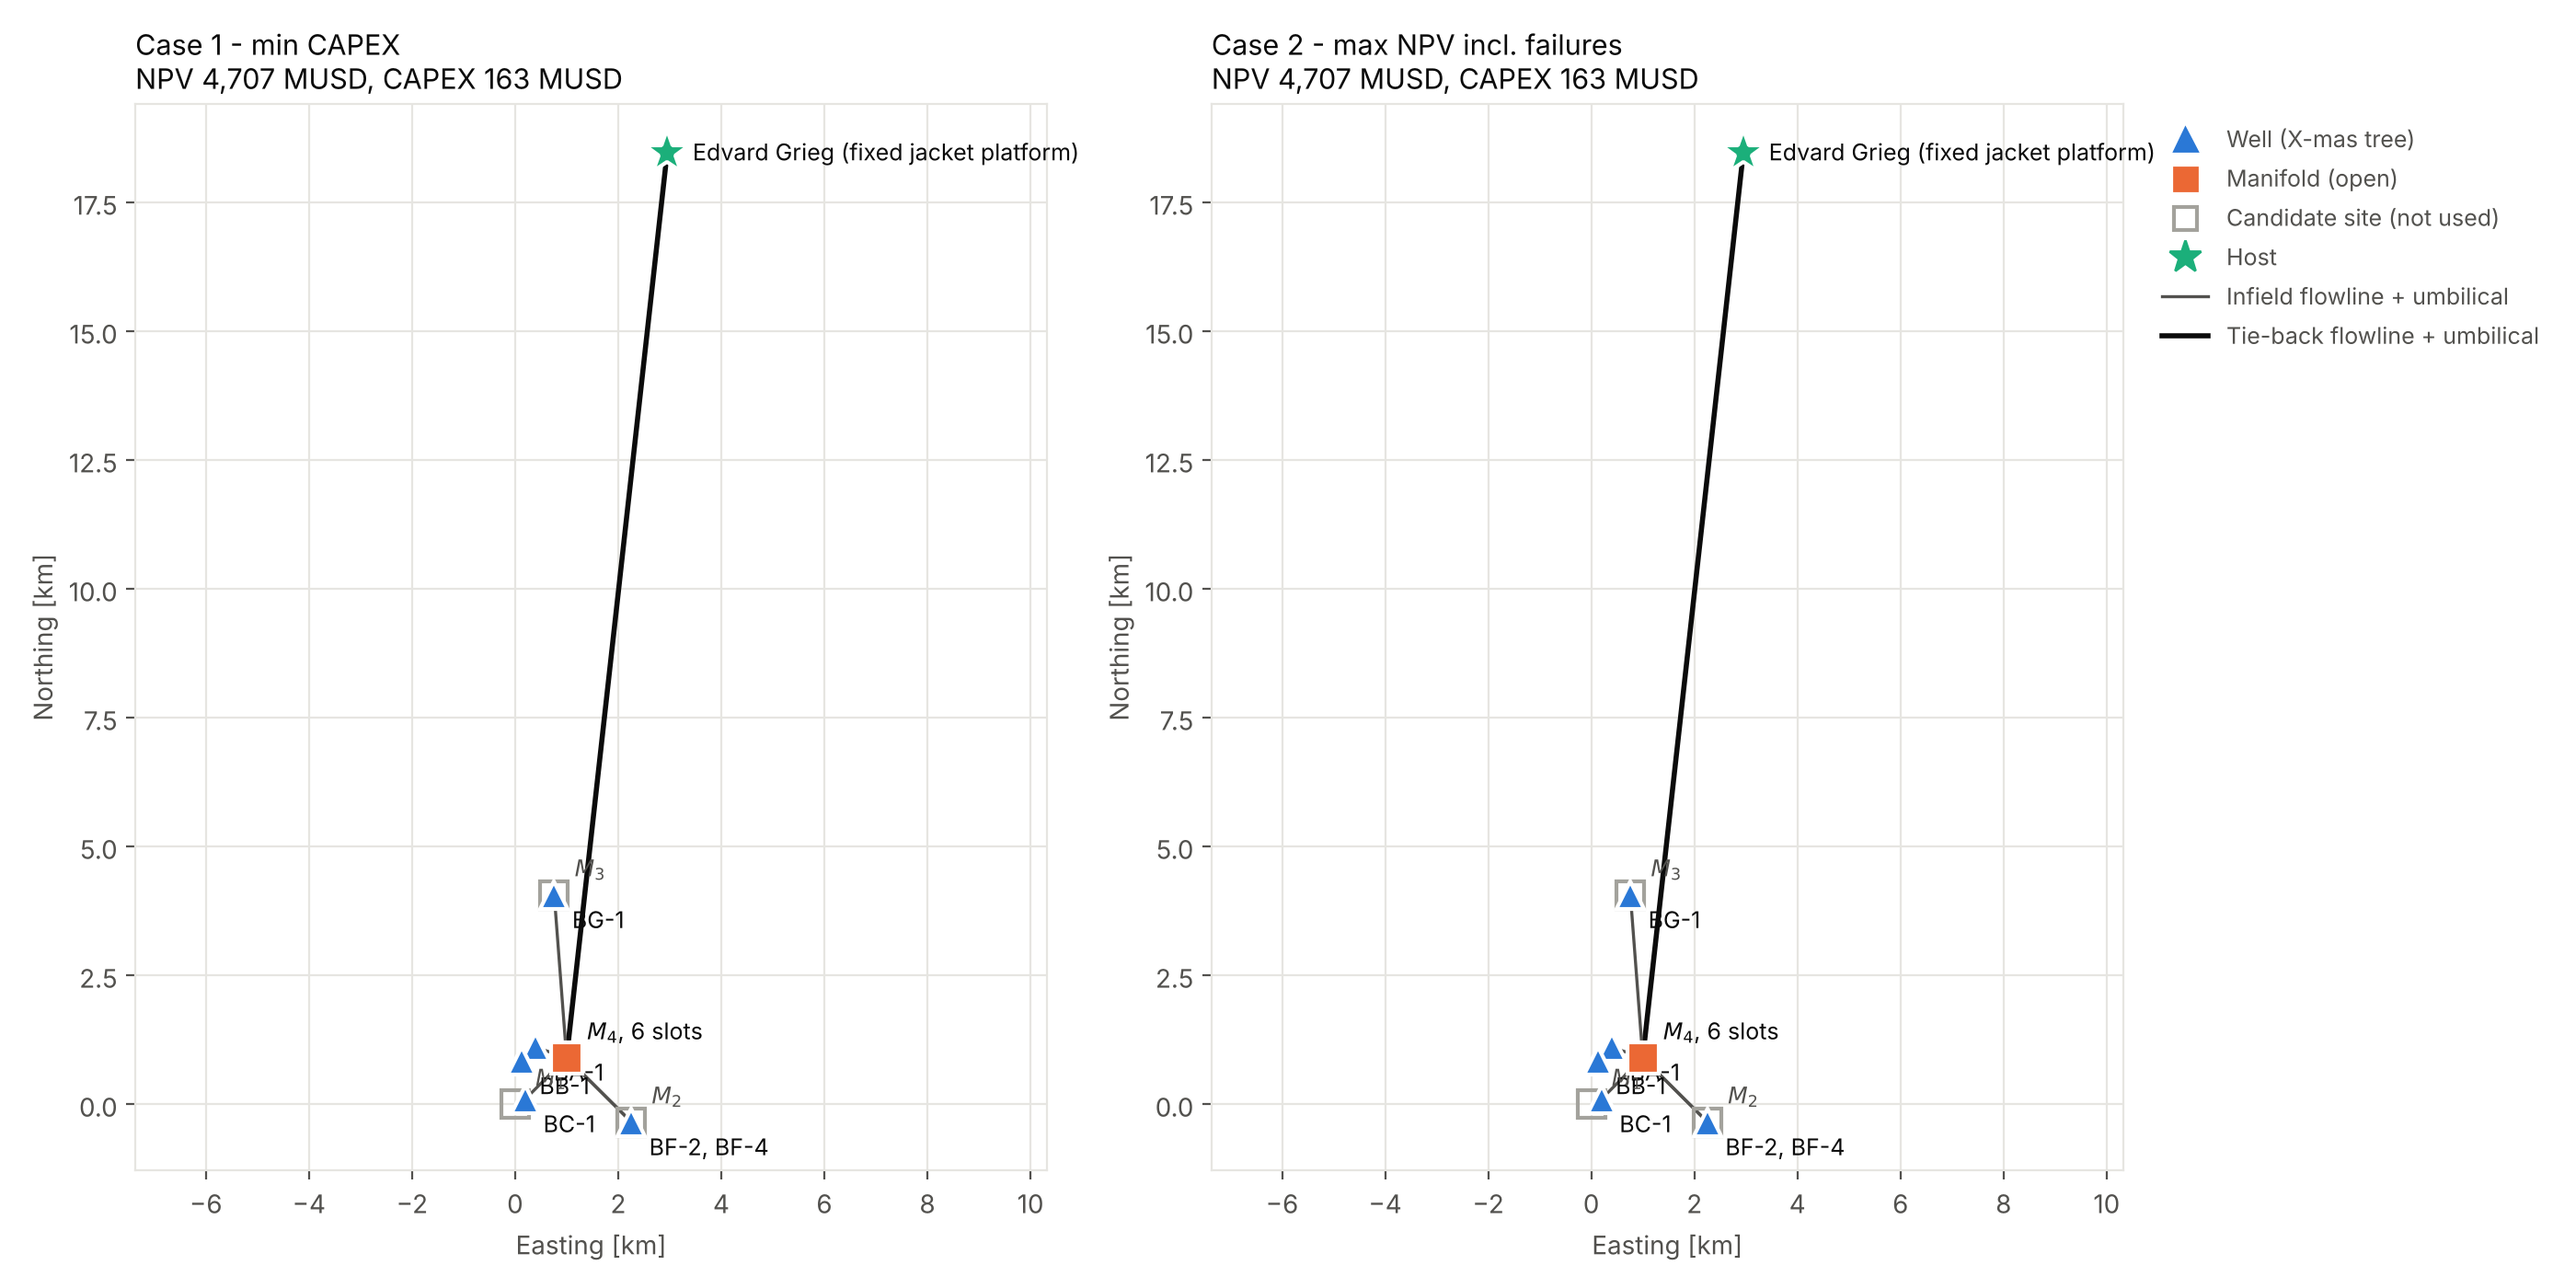
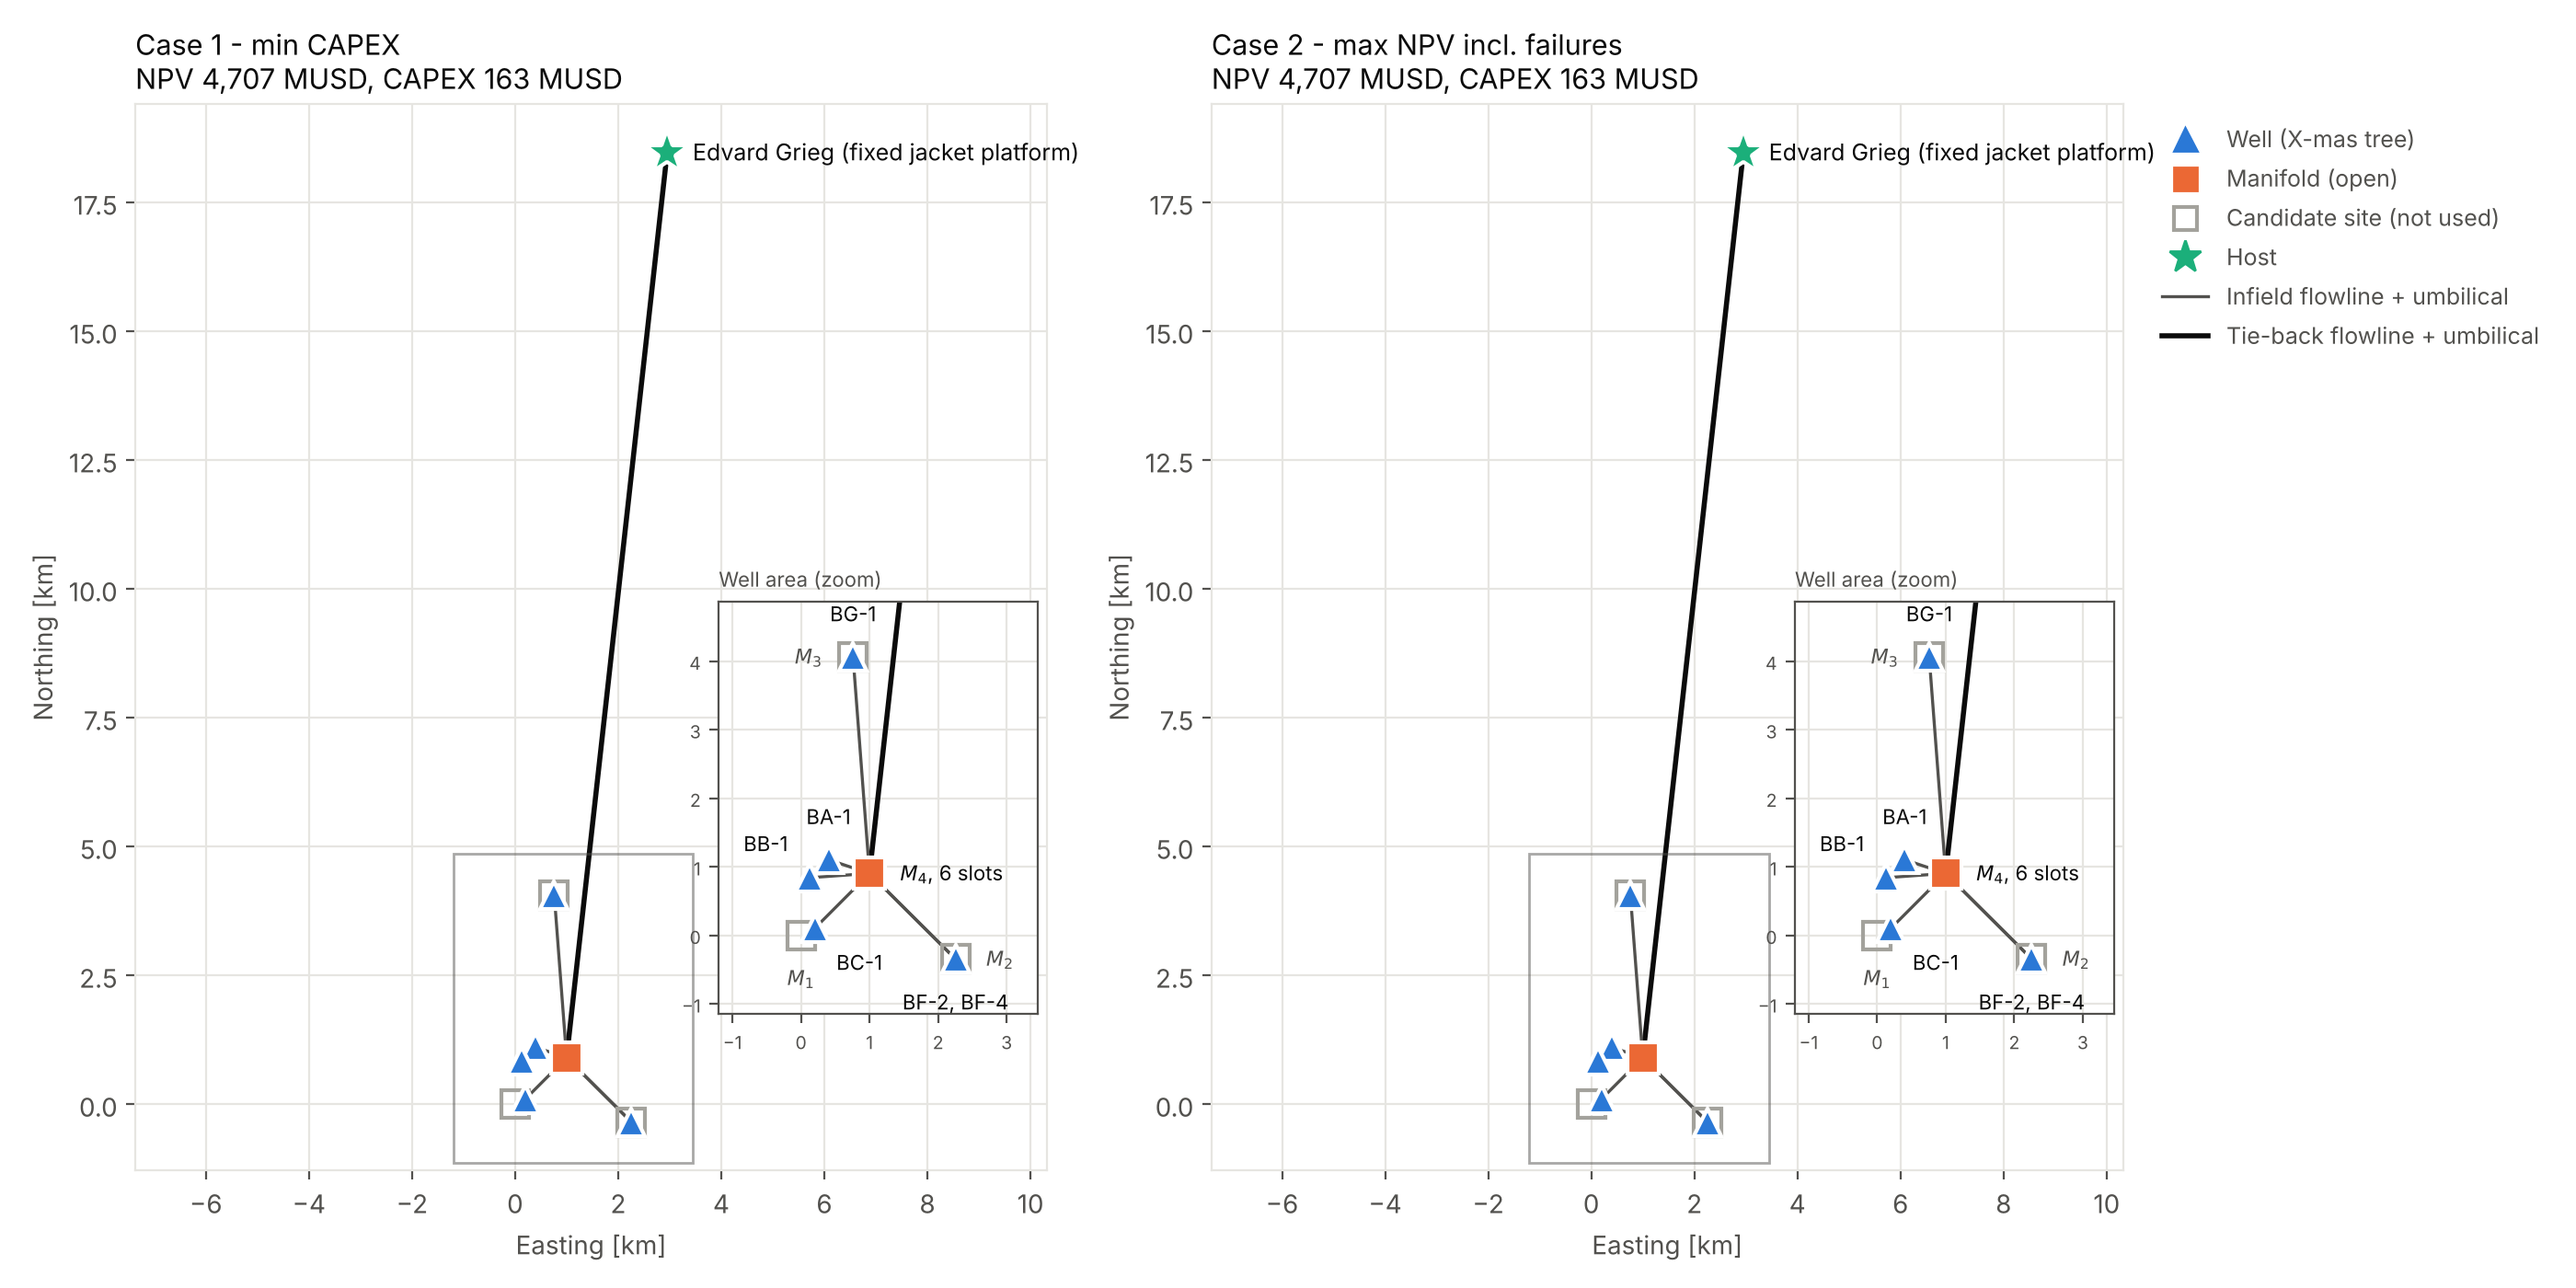
Layout map: zoomed inset of the well area for long tie-backs
- inset drawn automatically when the wells span < 30 % of the map (Solveig: 18 km
  tie-back); node labels move into the inset
- labels placed on the free side of each node, clear of lines and the inset frame;
  optional label_dir in the field YAML fixes a direction (used for BF wells and M3)
- test_plotting.py checks the inset appears for Solveig and not for the toy field

Claude-Session: https://claude.ai/code/session_01CSCPdJPHtsRQLDc3d7AWC5

diff --git a/src/layout_rel/plotting.py b/src/layout_rel/plotting.py
@@ -29,50 +29,169 @@ def _km(p):
     return p[0] / M_PER_KM, p[1] / M_PER_KM
 
 
-def plot_layout(field: Field, assignment: dict[str, str] | None = None,
-                title: str = "", ax=None, show_candidates: bool = True,
-                sizes: dict[str, int] | None = None):
-    """Plot wells, manifold sites, host and (optionally) the chosen connections."""
-    if ax is None:
-        _, ax = plt.subplots(figsize=(7, 7))
-    assignment = assignment or {}
-    open_sites = sorted(set(assignment.values()))
+INSET_RATIO = 0.3   # draw a zoomed inset when the well cluster spans < 30 % of the map
 
-    # connections first, so markers sit on top
-    for s in open_sites:
+
+def _cluster_box(field: Field, pad_km: float = 0.8) -> tuple[float, float, float, float]:
+    """Box around wells and sites [km]; extra room left and right for labels."""
+    pts = [_km(field.pos(n)) for n in field.wells + field.sites]
+    xs, ys = [p[0] for p in pts], [p[1] for p in pts]
+    return (min(xs) - 1.5 * pad_km, max(xs) + 1.5 * pad_km,
+            min(ys) - pad_km, max(ys) + pad_km)
+
+
+_COMPASS = {"E": (1.0, 0.0), "NE": (0.7071, 0.7071), "N": (0.0, 1.0), "NW": (-0.7071, 0.7071),
+            "W": (-1.0, 0.0), "SW": (-0.7071, -0.7071), "S": (0.0, -1.0), "SE": (0.7071, -0.7071)}
+_DIRS = [(1.0, 0.0), (0.7071, 0.7071), (0.0, 1.0), (-0.7071, 0.7071),
+         (-1.0, 0.0), (-0.7071, -0.7071), (0.0, -1.0), (0.7071, -0.7071)]
+
+
+class _Placer:
+    """Picks a label direction per node: the one whose label point is farthest from
+    the nodes, the lines' end points and the labels already placed (greedy)."""
+
+    def __init__(self, points: list[tuple[float, float]], r_km: float):
+        self.occupied = list(points)
+        self.r = r_km
+
+    def __call__(self, p: tuple[float, float], avoid=(), fixed: str = "") -> tuple[float, float]:
+        import math
+        if fixed:                              # direction set in the field file
+            u = _COMPASS[fixed.upper()]
+            self.occupied.append((p[0] + u[0] * self.r, p[1] + u[1] * self.r))
+            return u
+        best, best_d = _DIRS[1], -1.0
+        for u in _DIRS:
+            if u in avoid:
+                continue
+            q = (p[0] + u[0] * self.r, p[1] + u[1] * self.r)
+            d = min((math.hypot(q[0] - o[0], q[1] - o[1]) for o in self.occupied), default=1e9)
+            d += 0.05 * self.r * u[0]          # small preference for labels to the right
+            if d > best_d:
+                best, best_d = u, d
+        self.occupied.append((p[0] + best[0] * self.r, p[1] + best[1] * self.r))
+        return best
+
+
+def _label(ax, text: str, xy, u: tuple[float, float], color: str, fs: float) -> None:
+    """Annotate ``xy`` with text placed 12 pt away in direction ``u``."""
+    ux, uy = u
+    ax.annotate(text, xy, xytext=(12 * ux, 12 * uy), textcoords="offset points",
+                ha="left" if ux > 0.3 else "right" if ux < -0.3 else "center",
+                va="bottom" if uy > 0.3 else "top" if uy < -0.3 else "center",
+                color=color, fontsize=fs)
+
+
+def _draw(ax, field: Field, assignment: dict[str, str], sizes, show_candidates: bool,
+          labels: bool, fs: float = 9, r_km: float = 1.0, frame=None) -> None:
+    """Lines and markers of one layout; node labels only if ``labels``.
+
+    ``r_km``: label distance from its node in data units, used to keep labels apart.
+    ``frame``: (x0, x1, y0, y1) of the view; labels keep clear of its edges.
+    """
+    open_sites = sorted(set(assignment.values()))
+    pts = [_km(field.pos(n)) for n in field.wells + field.sites]
+    for s in open_sites:                       # points along the tie-backs, so labels avoid them
         (x0, y0), (x1, y1) = _km(field.pos(s)), _km(field.pos(field.host))
-        ax.plot([x0, x1], [y0, y1], color=C_INK, lw=2.0, zorder=1,
-                solid_capstyle="round")
+        pts += [(x0 + (x1 - x0) * t / 200, y0 + (y1 - y0) * t / 200) for t in range(1, 200)]
     for w, s in assignment.items():
         (x0, y0), (x1, y1) = _km(field.pos(w)), _km(field.pos(s))
-        ax.plot([x0, x1], [y0, y1], color=C_INK_2, lw=1.2, zorder=1,
-                solid_capstyle="round")
+        pts += [(x0 + (x1 - x0) * t / 4, y0 + (y1 - y0) * t / 4) for t in range(1, 4)]
+    if frame:
+        fx0, fx1, fy0, fy1 = frame
+        pts += [(fx0 + (fx1 - fx0) * t / 40, fy) for t in range(41) for fy in (fy0, fy1)]
+        pts += [(fx, fy0 + (fy1 - fy0) * t / 40) for t in range(41) for fx in (fx0, fx1)]
+    place = _Placer(pts, r_km)
+    for s in open_sites:                       # connections first, so markers sit on top
+        (x0, y0), (x1, y1) = _km(field.pos(s)), _km(field.pos(field.host))
+        ax.plot([x0, x1], [y0, y1], color=C_INK, lw=2.0, zorder=1, solid_capstyle="round")
+    for w, s in assignment.items():
+        (x0, y0), (x1, y1) = _km(field.pos(w)), _km(field.pos(s))
+        ax.plot([x0, x1], [y0, y1], color=C_INK_2, lw=1.2, zorder=1, solid_capstyle="round")
 
     ring = dict(markeredgecolor="white", markeredgewidth=1.5)
+    placed: dict[tuple[float, float], tuple[float, float]] = {}
     at_pos: dict[tuple[float, float], list[str]] = {}       # wells on one template share a label
+    fixed: dict[tuple[float, float], str] = {}
     for w in field.wells:
         at_pos.setdefault(field.pos(w), []).append(field.label(w))
-    for p, labels in at_pos.items():
+        if field.graph.nodes[w].get("label_dir"):
+            fixed[field.pos(w)] = field.graph.nodes[w]["label_dir"]
+    for p, names in at_pos.items():
         x, y = _km(p)
         ax.plot(x, y, "^", ms=11, color=C_WELL, zorder=3, **ring)
-        ax.annotate(", ".join(labels), (x, y), xytext=(7, -13), textcoords="offset points",
-                    color=C_INK, fontsize=9)
+        if labels:
+            u = place((x, y), fixed=fixed.get(p, ""))
+            _label(ax, ", ".join(names), (x, y), u, C_INK, fs)
+            placed[p] = u
     for s in field.sites:
         x, y = _km(field.pos(s))
         if s in open_sites:
             ax.plot(x, y, "s", ms=12, color=C_MANIFOLD, zorder=3, **ring)
         elif show_candidates:
             ax.plot(x, y, "s", ms=11, mfc="none", mec=C_MUTED, mew=1.5, zorder=2)
-        label = (f"{field.label(s)}, {sizes[s]} slots" if sizes and s in sizes
-                 else field.label(s))
-        ax.annotate(label, (x, y), xytext=(8, 7), textcoords="offset points",
-                    color=C_INK if s in open_sites else C_INK_2, fontsize=9)
+        if labels:
+            label = (f"{field.label(s)}, {sizes[s]} slots" if sizes and s in sizes
+                     else field.label(s))
+            u = place((x, y), avoid=[placed.get(field.pos(s))],
+                      fixed=field.graph.nodes[s].get("label_dir", ""))
+            _label(ax, label, (x, y), u, C_INK if s in open_sites else C_INK_2, fs)
     hx, hy = _km(field.pos(field.host))
     ax.plot(hx, hy, "*", ms=18, color=C_HOST, zorder=3, **ring)
+
+
+def _style(ax) -> None:
+    ax.tick_params(colors=C_INK_2)
+    ax.grid(True, color=C_GRID, lw=0.8)
+    ax.set_axisbelow(True)
+    for sp in ax.spines.values():
+        sp.set_color(C_GRID)
+
+
+def plot_layout(field: Field, assignment: dict[str, str] | None = None,
+                title: str = "", ax=None, show_candidates: bool = True,
+                sizes: dict[str, int] | None = None, inset: bool | None = None):
+    """Plot wells, manifold sites, host and (optionally) the chosen connections.
+
+    ``inset``: draw a zoomed inset of the wells and manifold sites, with their labels
+    there instead of on the main map. None = automatic (when the cluster is small
+    compared with the distance to the host, as for a long tie-back).
+    """
+    if ax is None:
+        _, ax = plt.subplots(figsize=(7, 7))
+    assignment = assignment or {}
+    open_sites = sorted(set(assignment.values()))
+    x0, x1, y0, y1 = _cluster_box(field)
+    hx, hy = _km(field.pos(field.host))
+    bx0, bx1, by0, by1 = _cluster_box(field, pad_km=0.0)
+    span = max(bx1 - bx0, by1 - by0)
+    total = max(abs(hx - (x0 + x1) / 2), abs(hy - (y0 + y1) / 2)) + span / 2
+    if inset is None:
+        inset = span < INSET_RATIO * total
+
+    _draw(ax, field, assignment, sizes, show_candidates, labels=not inset, r_km=0.07 * total)
     htype = field.graph.nodes[field.host].get("host_type", "")
     hname = field.label(field.host)
     ax.annotate(f"{hname} ({htype})" if htype else hname, (hx, hy),
                 xytext=(10, -3), textcoords="offset points", color=C_INK, fontsize=9)
+    if inset:
+        # put the inset on the side of the map away from the tie-backs
+        # the tie-back runs from the wells to the host; the lower corner on the far side
+        # from the host's direction stays empty
+        right = hx <= (x0 + x1) / 2 + 2 * (x1 - x0)
+        axin = ax.inset_axes([0.64, 0.06, 0.35, 0.56] if right else [0.01, 0.06, 0.35, 0.56])
+        axin.set_facecolor("white")
+        _draw(axin, field, assignment, sizes, show_candidates, labels=True, fs=8,
+              r_km=0.09 * span, frame=(x0, x1, y0, y1))
+        axin.set_xlim(x0, x1)
+        axin.set_ylim(y0, y1)
+        axin.set_aspect("equal", adjustable="box")
+        axin.tick_params(labelsize=7)
+        _style(axin)
+        for sp in axin.spines.values():
+            sp.set_color(C_INK_2)
+        axin.set_title("Well area (zoom)", loc="left", fontsize=8, color=C_INK_2)
+        ax.indicate_inset_zoom(axin, edgecolor=C_INK_2)
 
     handles = [
         Line2D([], [], marker="^", ls="", color=C_WELL, ms=9, label="Well (X-mas tree)"),
@@ -90,11 +209,7 @@ def plot_layout(field: Field, assignment: dict[str, str] | None = None,
     ax.set_aspect("equal", adjustable="datalim")
     ax.set_xlabel("Easting [km]", color=C_INK_2)
     ax.set_ylabel("Northing [km]", color=C_INK_2)
-    ax.tick_params(colors=C_INK_2)
-    ax.grid(True, color=C_GRID, lw=0.8)
-    ax.set_axisbelow(True)
-    for sp in ax.spines.values():
-        sp.set_color(C_GRID)
+    _style(ax)
     if title:
         ax.set_title(title, loc="left", color=C_INK, fontsize=11)
     return ax

diff --git a/scripts/prepare_solveig.py b/scripts/prepare_solveig.py
@@ -56,7 +56,9 @@ def main():
     for r in w.sort_values("wlbWell").itertuples():
         x, y = pos[r.wlbProductionFacility]
         name = "W_" + r.wlbWell.split("-", 1)[1].replace("-", "")
-        well_list.append({"name": name, "label": r.wlbWell.split("-", 1)[1], "x": x, "y": y,
+        well_list.append({"name": name, "label": r.wlbWell.split("-", 1)[1],
+                          **({"label_dir": "S"} if r.wlbProductionFacility.endswith(" BF") else {}),
+                          "x": x, "y": y,
                           "template": r.wlbProductionFacility, "sodir_well": r.wlbWell})
 
     # candidate manifold sites: the real manifold, the two phase-2 templates, and the well centroid
@@ -66,7 +68,7 @@ def main():
         {"name": "M_ACT", "label": "$M_1$", "x": pos[man][0], "y": pos[man][1], "note": f"real manifold ({man})"},
         {"name": "M_BF", "label": "$M_2$", "x": pos["16/4 SOLVEIG BF"][0], "y": pos["16/4 SOLVEIG BF"][1],
          "note": "at template BF (2 wells)"},
-        {"name": "M_BG", "label": "$M_3$", "x": pos["16/4 SOLVEIG BG"][0], "y": pos["16/4 SOLVEIG BG"][1],
+        {"name": "M_BG", "label": "$M_3$", "label_dir": "W", "x": pos["16/4 SOLVEIG BG"][0], "y": pos["16/4 SOLVEIG BG"][1],
          "note": "at template BG (north, closest to host)"},
         {"name": "M_CEN", "label": "$M_4$", "x": round(float(xs.mean()), 1), "y": round(float(ys.mean()), 1),
          "note": "centroid of the 6 producing wells (cf. Silva & Guedes Soares 2025 Eqs. 44-45)"},

diff --git a/src/layout_rel/layout.py b/src/layout_rel/layout.py
@@ -2,7 +2,8 @@
 
 The field is stored as a NetworkX graph:
 - nodes carry ``kind`` ("well", "site", "host"), ``pos`` (x, y) in metres and an
-  optional display ``label`` for figures (mathtext allowed, e.g. "$M_1$");
+  optional display ``label`` for figures (mathtext allowed, e.g. "$M_1$") and an
+  optional ``label_dir`` (compass point, e.g. "SW") to fix where the label goes;
 - edges are the *candidate* connections with a ``length`` attribute in metres:
   every well to every manifold site, and every site to the host.
 """
@@ -54,9 +55,11 @@ def build_field(data: dict, length_factor: float = 1.0) -> Field:
     wells = [w["name"] for w in data["wells"]]
     sites = [s["name"] for s in data["manifold_sites"]]
     for w in data["wells"]:
-        g.add_node(w["name"], kind="well", pos=(w["x"], w["y"]), label=w.get("label", w["name"]))
+        g.add_node(w["name"], kind="well", pos=(w["x"], w["y"]), label=w.get("label", w["name"]),
+                   label_dir=w.get("label_dir", ""))
     for s in data["manifold_sites"]:
-        g.add_node(s["name"], kind="site", pos=(s["x"], s["y"]), label=s.get("label", s["name"]))
+        g.add_node(s["name"], kind="site", pos=(s["x"], s["y"]), label=s.get("label", s["name"]),
+                   label_dir=s.get("label_dir", ""))
 
     for s in sites:
         for w in wells:

diff --git a/tests/test_plotting.py b/tests/test_plotting.py
@@ -1,0 +1,16 @@
+from layout_rel.config import REPO_ROOT
+from layout_rel.layout import load_field
+from layout_rel.plotting import plot_layout
+
+
+def _insets(ax):
+    return [c for c in ax.child_axes]
+
+
+def test_inset_only_for_long_tieback():
+    sol = load_field(REPO_ROOT / "config" / "field_solveig.yaml")
+    ax = plot_layout(sol, {w: "M_CEN" for w in sol.wells}, sizes={"M_CEN": 6})
+    assert len(_insets(ax)) == 1                 # 18 km tie-back, wells within 5 km
+    toy = load_field(REPO_ROOT / "config" / "field_toy.yaml")
+    ax = plot_layout(toy, {w: "M2" for w in toy.wells}, sizes={"M2": 6})
+    assert not _insets(ax)
